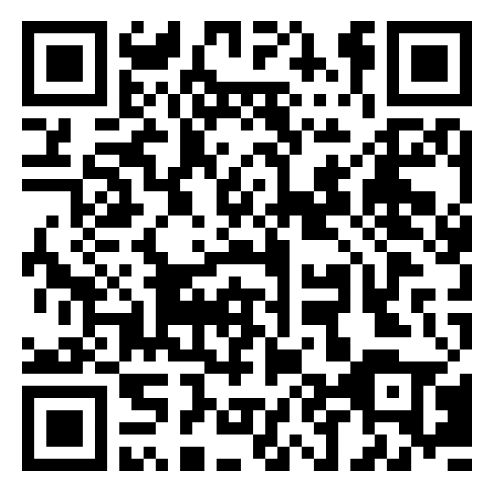
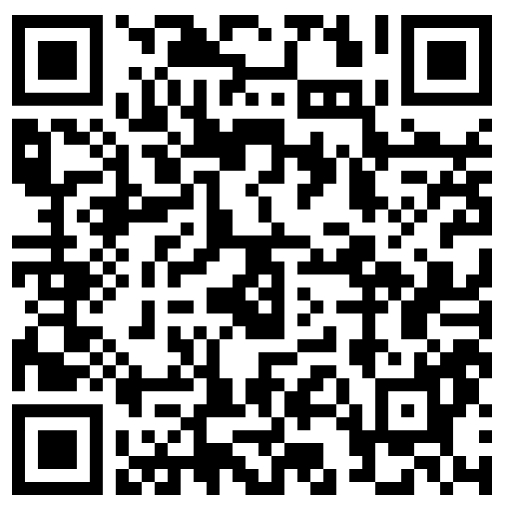
docs: update with new build

diff --git a/README.md b/README.md
@@ -1,6 +1,6 @@
 # Food Delivery App - Team 3900-W16A-Banana
 
-Open [LINK](https://expo.dev/accounts/wen123567/projects/SmartEats/builds/36626f96-ccc8-4be9-9f99-1e0b8b5af916) to install the latest build of the app on your **Android** device. Or scan this QR code:
+Open [LINK](https://expo.dev/accounts/wen123567/projects/SmartEats/builds/f9fd63ee-eb85-4787-9310-14b1b60bcbda) to install the latest build of the app on your **Android** device. Or scan this QR code:
 
 <img src="./docs/readme_images/qrcode.png" alt="QR code" width="200" height="auto" />
 
